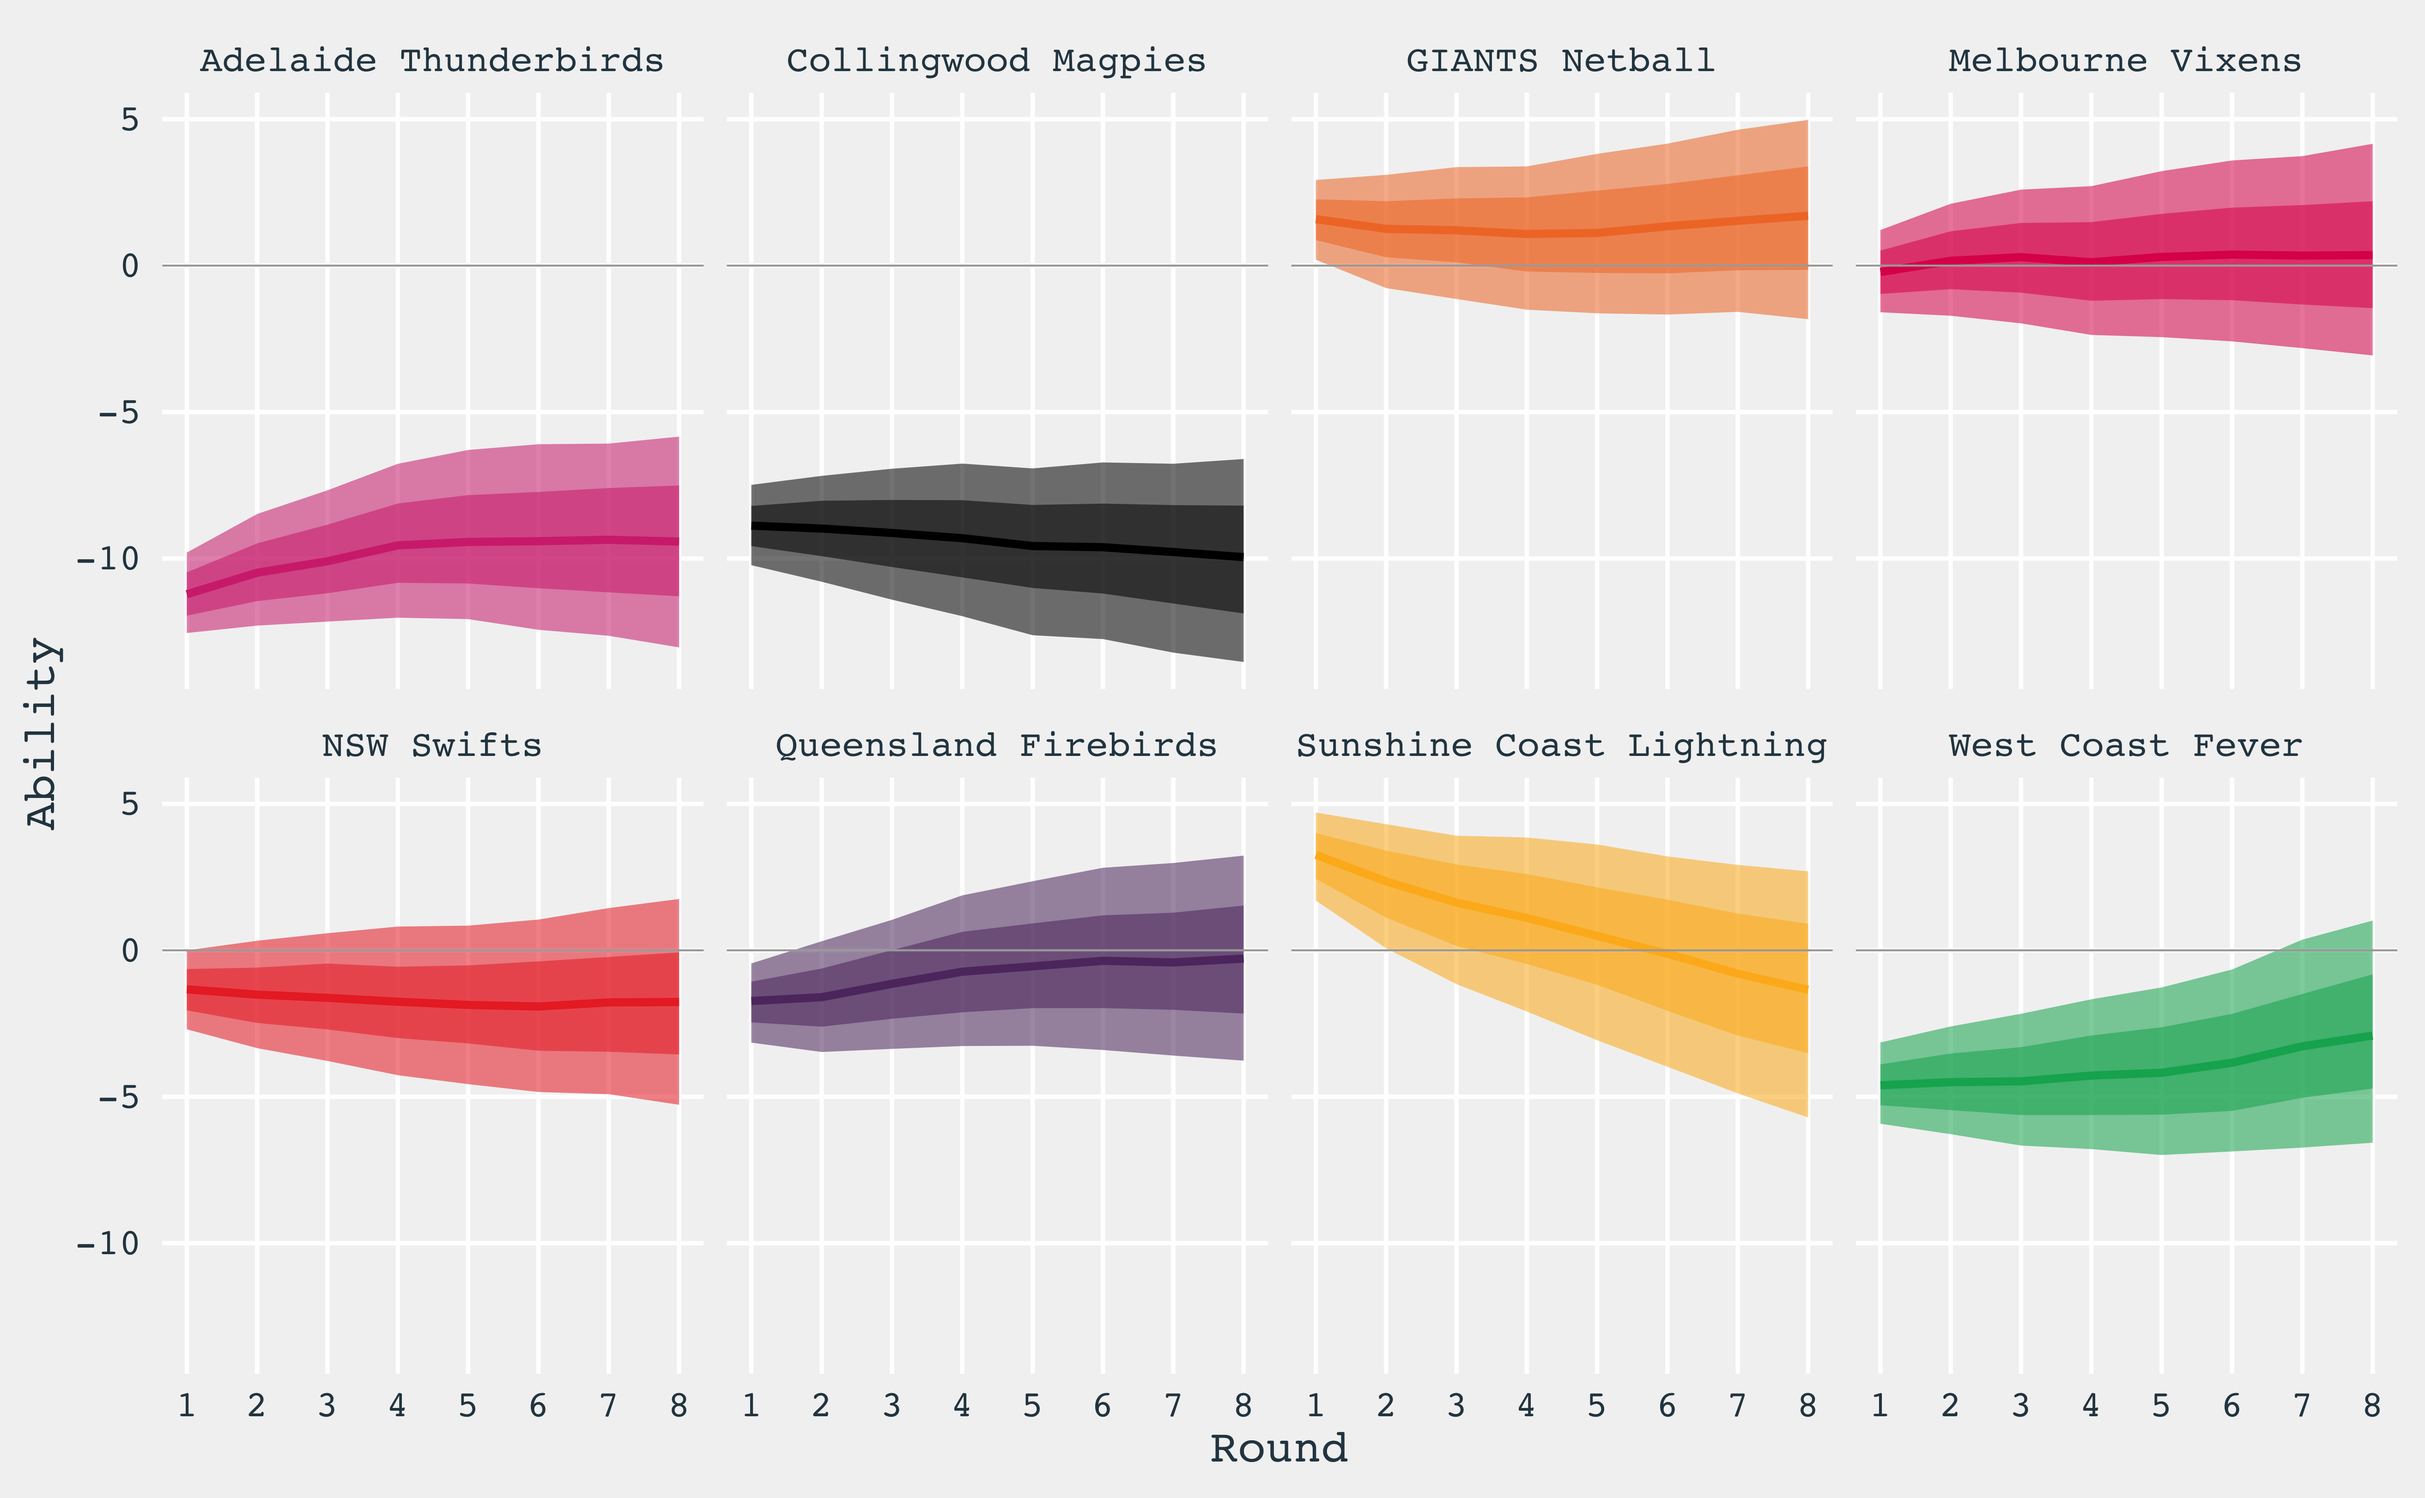
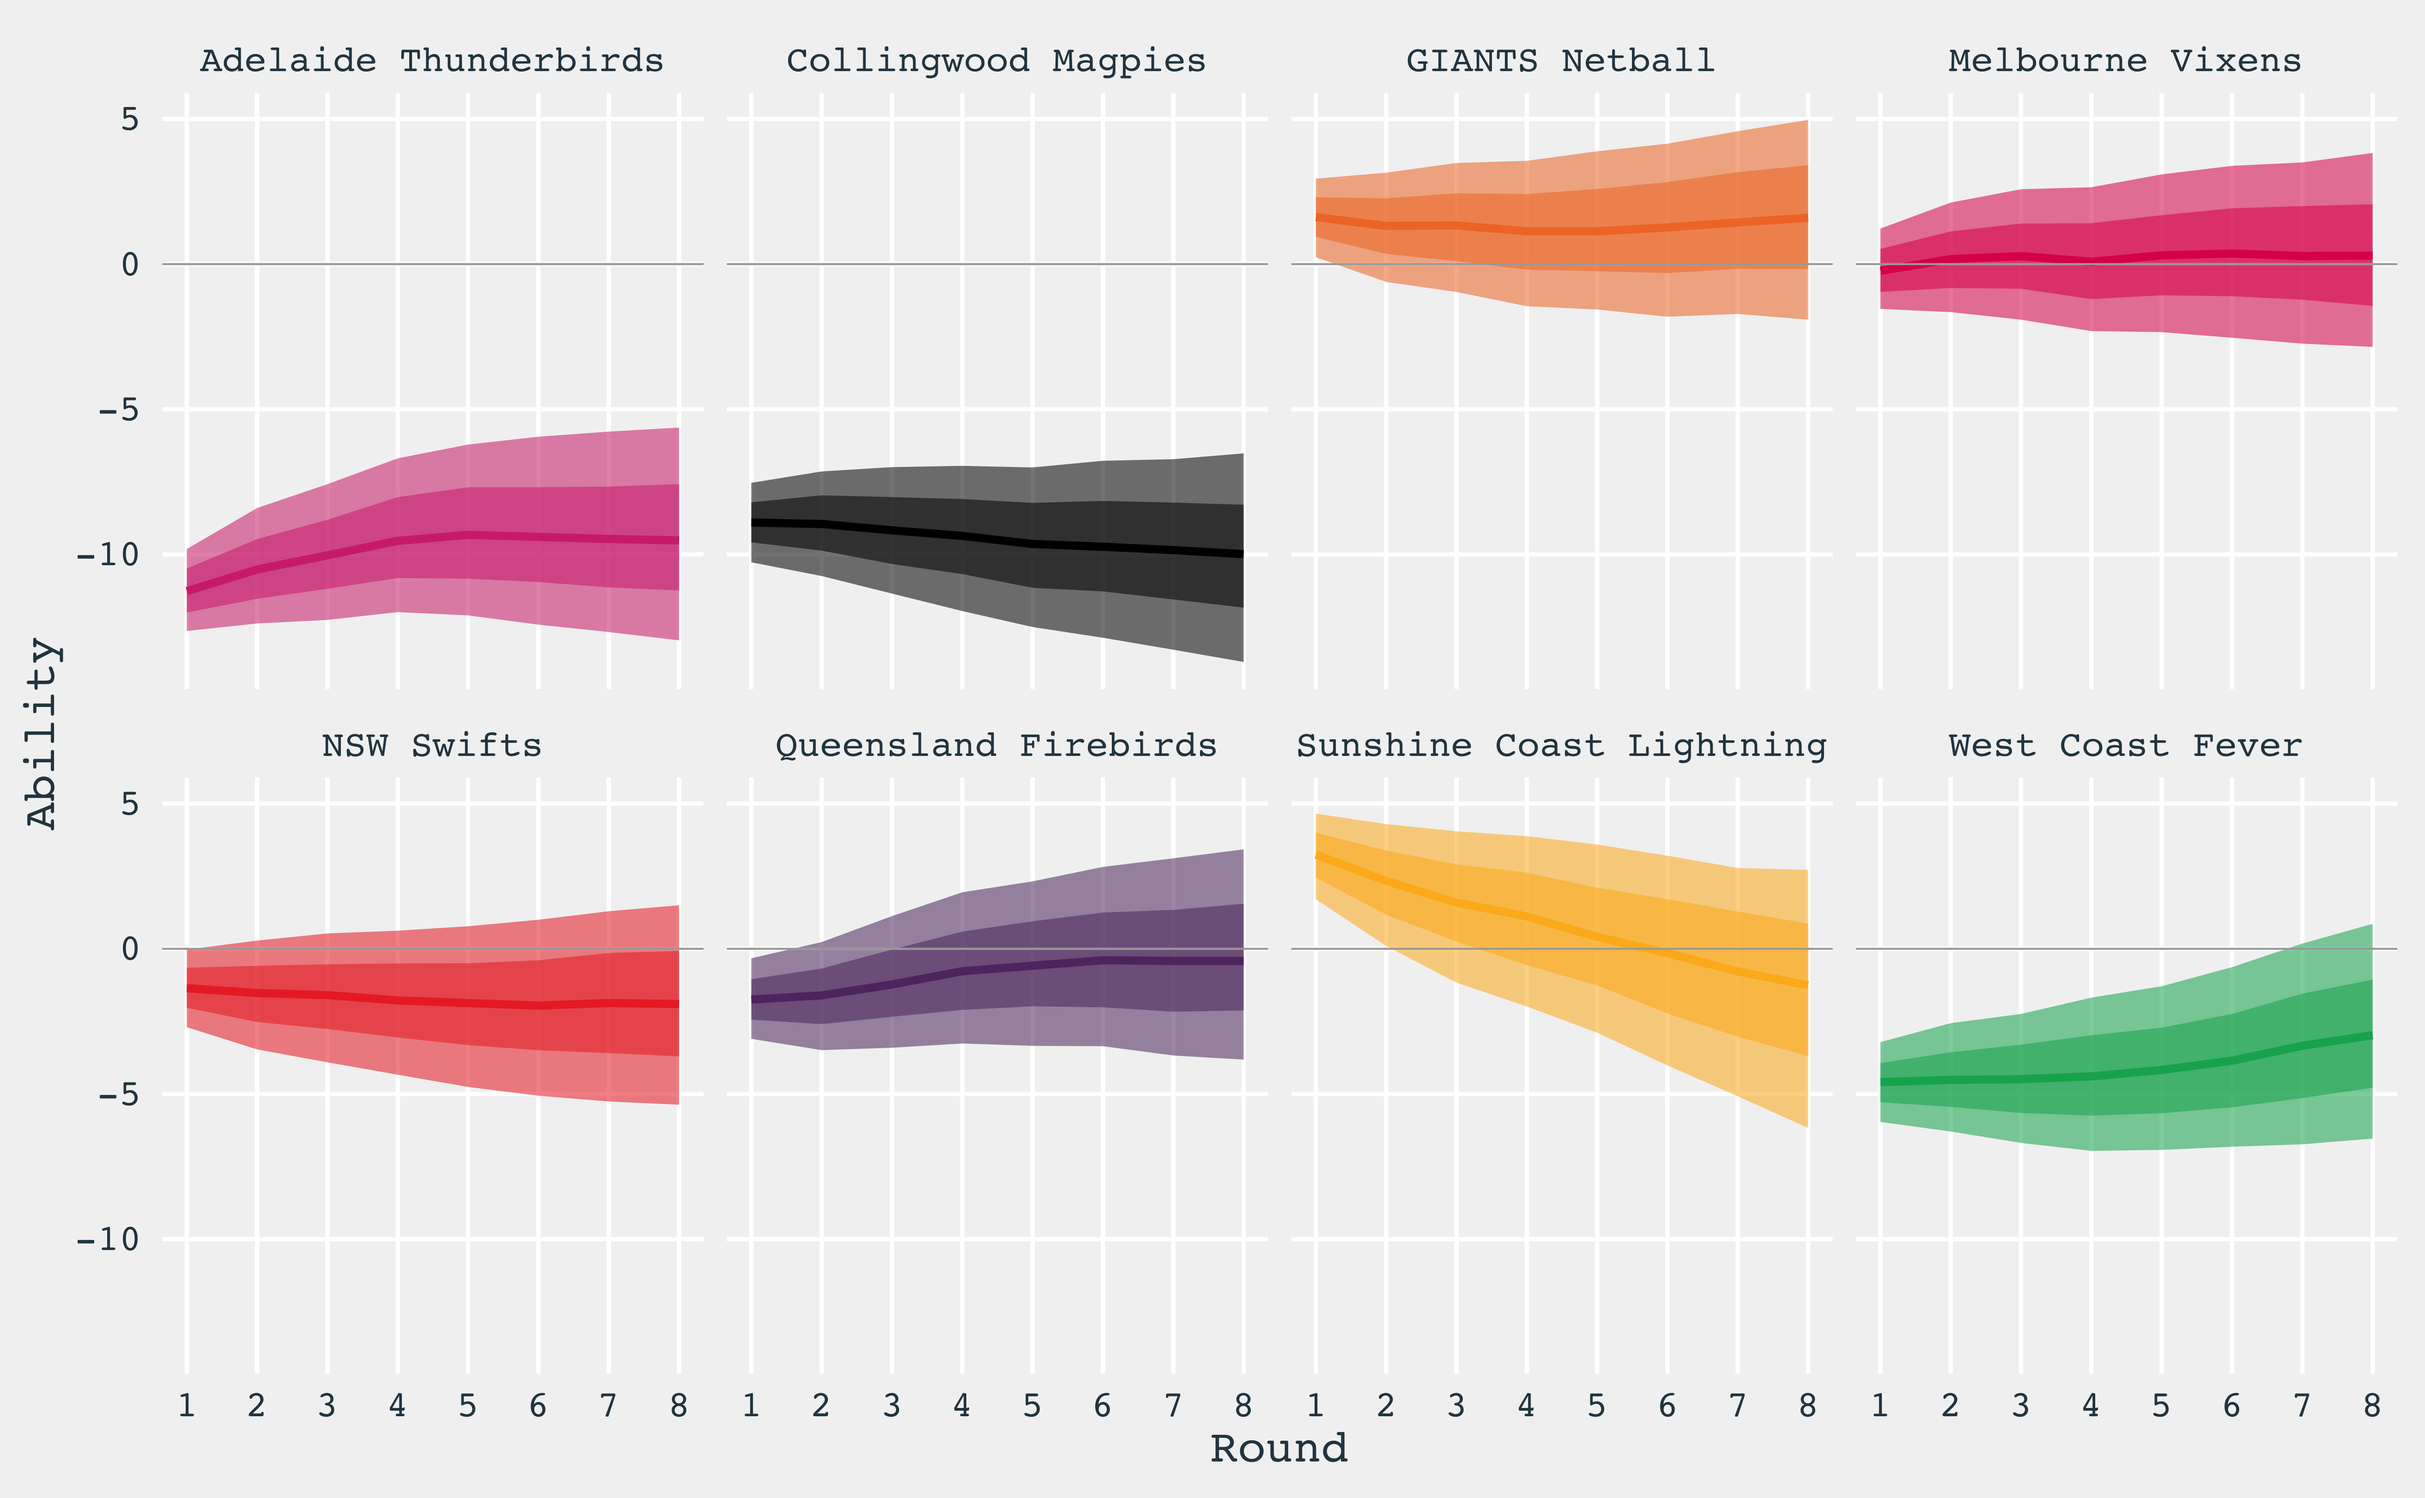
update round 9

diff --git a/content/post/2020-08-31-round9.md b/content/post/2020-08-31-round9.md
@@ -25,10 +25,10 @@ Predictions for the 9th round are given in the table below. The priors for these
 
 |Home                  |Away                     |Chance of home team winning |
 |:---------------------|:------------------------|:---------------------------|
-|GIANTS Netball        |Melbourne Vixens         |32%                         |
-|Collingwood Magpies   |NSW Swifts               |28%                         |
-|Adelaide Thunderbirds |Sunshine Coast Lightning |27%                         |
-|Queensland Firebirds  |West Coast Fever         |20%                         |
+|GIANTS Netball        |Melbourne Vixens         |34%                         |
+|Collingwood Magpies   |NSW Swifts               |32%                         |
+|Adelaide Thunderbirds |Sunshine Coast Lightning |28%                         |
+|Queensland Firebirds  |West Coast Fever         |18%                         |
 
 ### Score Differential Distributions
 
@@ -52,11 +52,21 @@ I've also built a model that doesn't utilise a home ground advantage parameter. 
 
 In this section we look at how the model estimates team ability from the previous round, as well as model performance.
 
-### Team Abilities
+### Team Ability
 
-The figure below shows how team ability has evolved over the season to date. Team ability can be understood as the expected score difference that the team contributes to the final expected match score difference. For example, if the Vixens are playing at home and have an estimated ability of 1 against the Magpies who have an estimated ability of -1, the expected match difference will be 2 (1 - -1).
+Team ability can be understood as the expected score difference that the team contributes to the final expected match score difference. For example, if the Vixens are playing at home and have an estimated ability of 1 against the Magpies who have an estimated ability of -1, the expected match difference will be 2 (1 - -1).
 
-!["team abilities"](/sn-assets/2020/round9/abilities.png)
+#### Latest Team Ability
+
+The figure below shows the latest team ability estimate. The points are the median predicted ability (as estimated by the model). The dark shading shows 50% prediction intervals, the lighter shading shows 50% prediction intervals.
+
+!["latest team ability"](/sn-assets/2020/round9/abilities-latest.png)
+
+#### Season Team Abilities
+
+The figure below shows how team ability has evolved over the season to date.
+
+!["season team abilities"](/sn-assets/2020/round9/abilities.png)
 
 ### Comparison of Game Results Against Predictions
 
